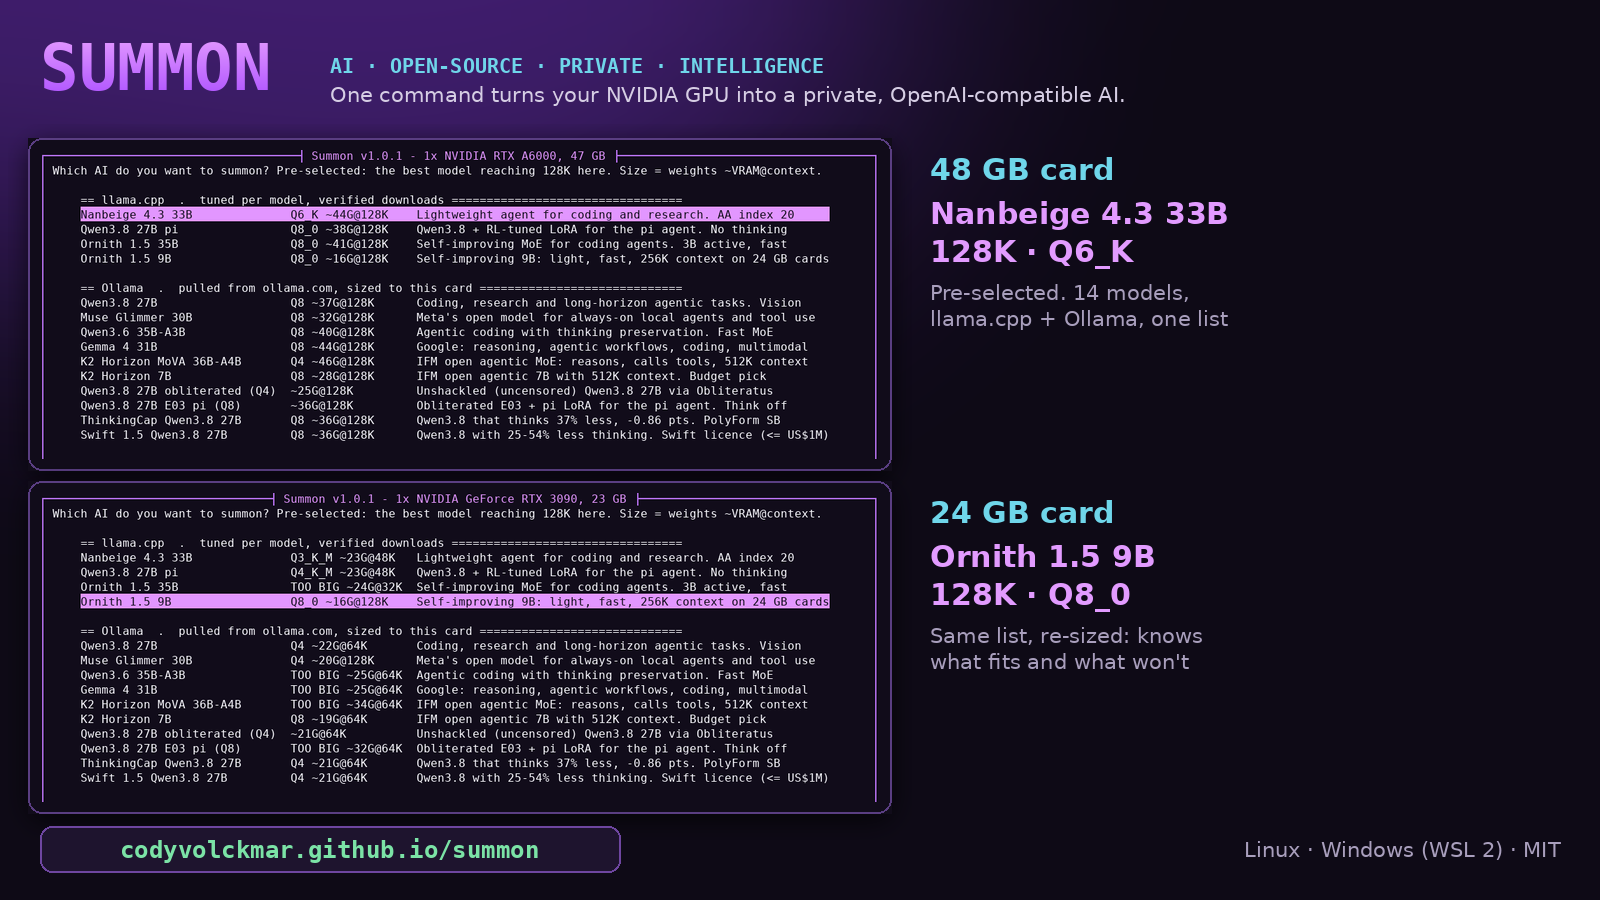
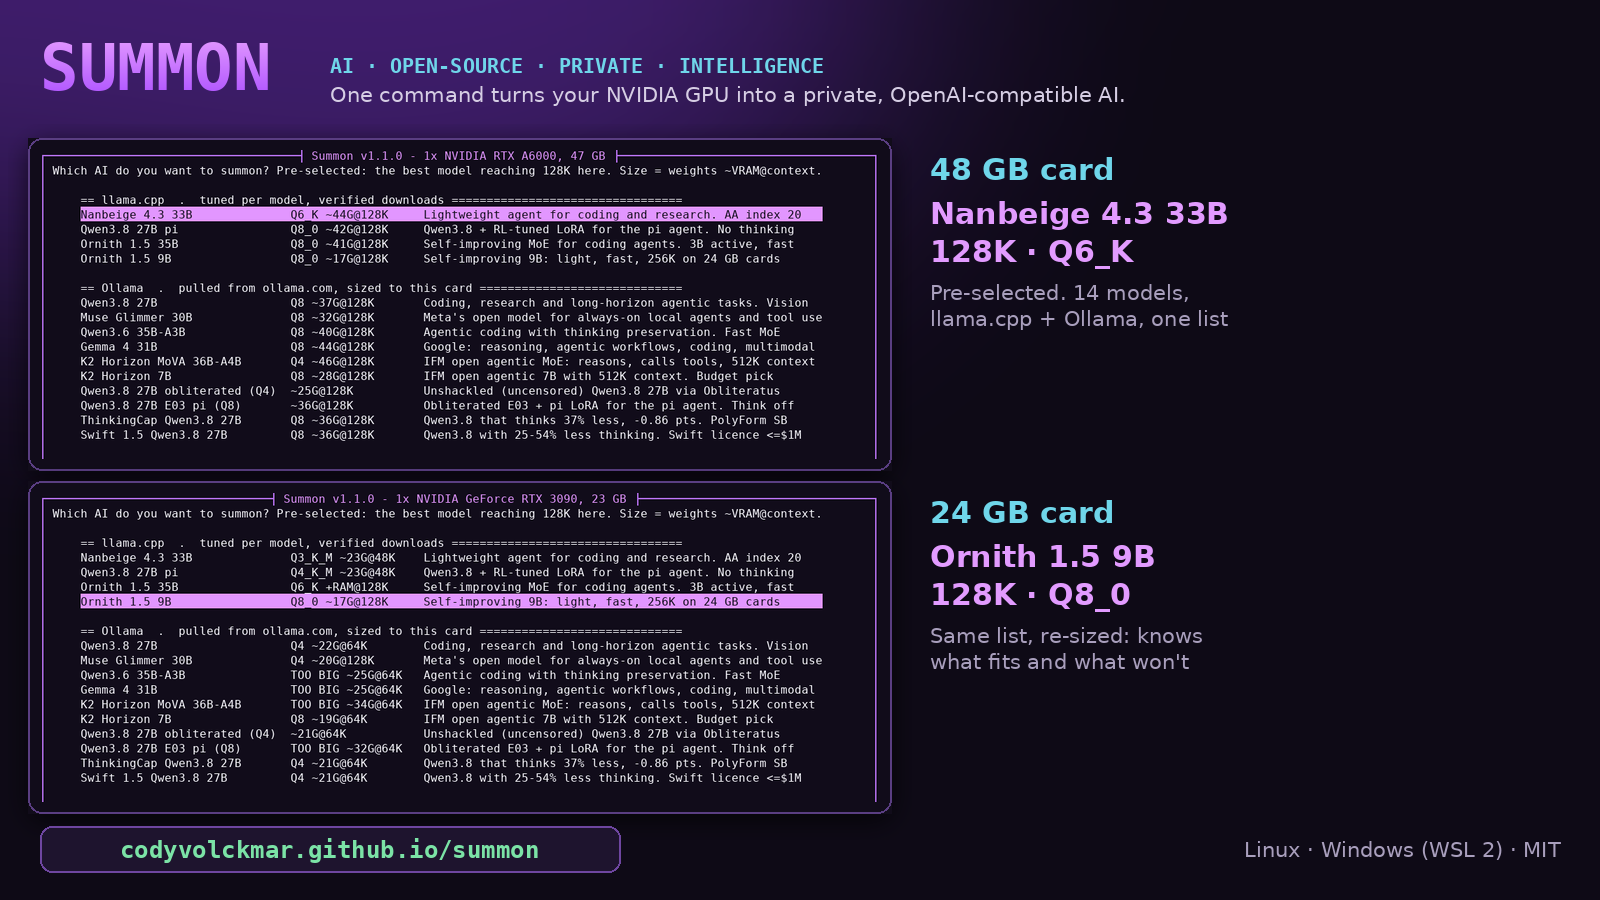
v1.1.0: draft models for every llama.cpp model, MoE experts in system RAM
- Drafts: Qwen3.8 MTP head (file), Ornith built-in MTP layer, Nanbeige4.1-3B (padded once in a container);
  counted in the VRAM fit; on when free, otherwise offered with 'No' pre-selected (DRAFT=on|off, SPEC=off)
- MoE experts in RAM (--cpu-moe + --moe-cache-mib) when the GPU cache holds >= 60% of experts; '+RAM' in menus;
  never pre-selected. Ornith 35B now runs on 24 GB cards with enough system RAM
- Speculation is not bit-identical: docs/messages corrected. SUMMON_RAM for dry-run previews

Changed region(s): [[0.25, 0.2178, 0.5, 0.4978], [0.25, 0.7156, 0.5, 0.8711], [0.1875, 0.5911, 0.5312, 0.6844]]

diff --git a/docs/index.html b/docs/index.html
@@ -62,7 +62,7 @@
   <div class="stars">✦ · ✦ · ✦</div>
   <h1 class="logo">SUMMON</h1>
   <p class="tag">AI · Open-source · Private · Intelligence</p>
-  <p class="note" style="margin:6px 0 0">v1.0.1 · <a href="https://github.com/codyvolckmar/summon/blob/main/CHANGELOG.md">what's new</a></p>
+  <p class="note" style="margin:6px 0 0">v1.1.0 · <a href="https://github.com/codyvolckmar/summon/blob/main/CHANGELOG.md">what's new: draft models, MoE experts in RAM</a></p>
   <p class="lede">One command turns your NVIDIA GPU into a <b>private AI</b> with an OpenAI-compatible API.
     Summon picks the model, weights and context that fit <b>your</b> card, verifies the download, keeps the port private
     and tests tool calling before it hands you the URL. No cloud. No API bill. Nobody else's servers.</p>
@@ -85,7 +85,7 @@
     <div class="card"><h3>Picks for you</h3><p>The best model that reaches 128K context on your card is pre-selected. Context first, then the most precise weights that still fit.</p></div>
     <div class="card"><h3>Verifies</h3><p>Resumable downloads, exact byte counts, GGUF header checks, sha256 on request. Every layer stays on the GPU or it fails loudly.</p></div>
     <div class="card"><h3>Stays private</h3><p>On your own PC it only listens on <code>0.0.0.0</code>. On a rented pod it's firewalled to the IP you SSH in from. No VPN needed.</p></div>
-    <div class="card"><h3>Tuned per model</h3><p>The model's own chat template, native tool calls, a host-RAM prompt cache, lossless n-gram speculative decoding.</p></div>
+    <div class="card"><h3>Tuned per model</h3><p>The model's own chat template, native tool calls, a host-RAM prompt cache, and speculative decoding with each model's draft: MTP heads, a 3B draft model, n-gram drafts.</p></div>
     <div class="card"><h3>Proves it works</h3><p>Before handing you the URL, it makes a real tool call and checks it comes back in OpenAI format.</p></div>
   </div>
 </section>
@@ -96,7 +96,7 @@
     <tr><th>Model</th><th>Engine</th><th>Good at</th><th>24 GB (RTX 3090 / 4090)</th><th>48 GB (RTX A6000)</th></tr>
     <tr><td><b>Nanbeige 4.3 33B</b></td><td>llama.cpp</td><td>Agentic coding. Top of the ≤40B class on Artificial Analysis (index 20).</td><td>up to 48K</td><td>128K (Q6_K) · 256K (Q3_K_M)</td></tr>
     <tr><td><b>Qwen3.8 27B pi</b></td><td>llama.cpp</td><td>Qwen3.8 27B plus a LoRA trained with RL to drive the pi coding agent. Thinking off, far fewer tokens. Vendor benchmarks only.</td><td>~48K (Q4_K_M)</td><td>256K with 8-bit weights</td></tr>
-    <tr><td><b>Ornith 1.5 35B</b></td><td>llama.cpp</td><td>Fast MoE, ~3B active per token. Vendor benchmarks only.</td><td>doesn't fit</td><td>256K with 8-bit weights</td></tr>
+    <tr><td><b>Ornith 1.5 35B</b></td><td>llama.cpp</td><td>Fast MoE, ~3B active per token. Vendor benchmarks only.</td><td>128K, experts in RAM</td><td>256K with 8-bit weights</td></tr>
     <tr><td><b>Ornith 1.5 9B</b></td><td>llama.cpp</td><td>Fast and light. Vendor benchmarks only.</td><td>256K with 8-bit weights</td><td>256K with 8-bit weights</td></tr>
     <tr><td><b>Ollama models</b></td><td>Ollama</td><td>Qwen3.8 27B, Qwen3.6 35B-A3B, Gemma 4 31B, K2 Horizon, Muse Glimmer…</td><td>Qwen3.8 27B at 64K</td><td>most at 128K, 8-bit</td></tr>
   </table>
@@ -111,6 +111,7 @@
     <figure><a href="img/01-model-menu-a6000.png"><img src="img/01-model-menu-a6000.png" alt="Summon model menu on an RTX A6000" loading="lazy"></a><figcaption>One menu, every model: llama.cpp and Ollama side by side, sized to a 48 GB card. Nanbeige pre-selected.</figcaption></figure>
     <figure><a href="img/06-model-menu-3090.png"><img src="img/06-model-menu-3090.png" alt="Summon model menu on an RTX 3090" loading="lazy"></a><figcaption>The same list on a 24 GB card: re-sized, too-big models flagged, Ornith 9B pre-selected.</figcaption></figure>
     <figure><a href="img/03-context-menu.png"><img src="img/03-context-menu.png" alt="Context window menu" loading="lazy"></a><figcaption>Step 1: context window, with the best weights that fit at each length.</figcaption></figure>
+    <figure><a href="img/11-draft-question.png"><img src="img/11-draft-question.png" alt="Draft model question" loading="lazy"></a><figcaption>Draft models speed decoding up. When one would cost weight precision on your card, Summon asks, and defaults to precision.</figcaption></figure>
     <figure><a href="img/04-weights-menu.png"><img src="img/04-weights-menu.png" alt="Weights menu" loading="lazy"></a><figcaption>Step 2: weights. Total VRAM and relative speed for every option.</figcaption></figure>
     <figure><a href="img/05-dry-run-plan.png"><img src="img/05-dry-run-plan.png" alt="Dry run plan" loading="lazy"></a><figcaption>The plan: exactly what it would install, download and start.</figcaption></figure>
     <figure><a href="img/09-ollama-menu.png"><img src="img/09-ollama-menu.png" alt="Ollama model checklist" loading="lazy"></a><figcaption><code>./summon.sh ollama</code>: the same menu, Qwen3.8 27B pre-selected (ranked with independent benchmarks).</figcaption></figure>
@@ -142,7 +143,7 @@
 </section>
 
 <footer>
-  Summon v1.0.1 · open source (MIT) · <a href="https://github.com/codyvolckmar/summon">github.com/codyvolckmar/summon</a><br>
+  Summon v1.1.0 · open source (MIT) · <a href="https://github.com/codyvolckmar/summon">github.com/codyvolckmar/summon</a><br>
   Models belong to their creators and carry their own licences: Nanbeige (Apache-2.0), Ornith (MIT), Ollama models as listed.
 </footer>
 </div>

diff --git a/tools/termshot.py b/tools/termshot.py
@@ -341,13 +341,14 @@ if __name__ == '__main__':
     env = dict(base, SUMMON_GPU='NVIDIA RTX A6000:49140')
     run(f'cd {root}; clear; echo "$ ./summon.sh --dry-run"; "{S}" --dry-run; sleep 30', env, [
         ('until', r'Which AI', 15), ('shot', '01-model-menu-a6000.png', 'summon.sh --dry-run  (RTX A6000, 48 GB)'),
+        ('key', ENTER), ('until', r'Trade precision for speed', 10), ('shot', '11-draft-question.png', 'summon.sh --dry-run  (RTX A6000, 48 GB)'),
         ('key', ENTER), ('until', r'Step 1/2', 10), ('shot', '03-context-menu.png', 'summon.sh --dry-run  (RTX A6000, 48 GB)'),
         ('key', ENTER), ('until', r'Step 2/2', 10), ('shot', '04-weights-menu.png', 'summon.sh --dry-run  (RTX A6000, 48 GB)'),
         ('key', ENTER), ('until', r'Last step: port', 10), ('shot', '02-port.png', 'summon.sh --dry-run  (RTX A6000, 48 GB)'),
         ('key', ENTER), ('until', r'Same, without menus', 10), ('shot', '05-dry-run-plan.png', 'summon.sh --dry-run  (RTX A6000, 48 GB)'),
     ], out)
     # 2) RTX 3090: the model menu pre-selects Ornith 9B
-    env = dict(base, SUMMON_GPU='NVIDIA GeForce RTX 3090:24576')
+    env = dict(base, SUMMON_GPU='NVIDIA GeForce RTX 3090:24576', SUMMON_RAM='65536')   # a 64 GB RAM box: Ornith 35B fits with experts in RAM
     run(f'cd {root}; clear; "{S}" --dry-run 40000; sleep 30', env, [
         ('until', r'Which AI', 15), ('shot', '06-model-menu-3090.png', 'summon.sh --dry-run 40000  (RTX 3090, 24 GB)'),
         ('key', ENTER), ('until', r'Step 1/2', 10), ('key', ENTER), ('until', r'Step 2/2', 10),

diff --git a/README.md b/README.md
@@ -1,6 +1,6 @@
 # Summon
 
-**AI · Open-source · Private · Intelligence**  ·  v1.0.1 ([changelog](CHANGELOG.md))
+**AI · Open-source · Private · Intelligence**  ·  v1.1.0 ([changelog](CHANGELOG.md))
 
 One command turns your NVIDIA GPU into a private AI with an OpenAI-compatible API. Summon picks the model, weights and context that fit your card, verifies the download, keeps the port private and tests tool calling before it hands you the URL. No cloud, no API bill, nobody else's servers.
 
@@ -35,7 +35,7 @@ Piping a script into a shell gives it root. Read [summon.sh](summon.sh) first; i
 |---|---|---|---|
 | **Nanbeige 4.3 33B**: agentic coding, Artificial Analysis index 20 (top of the ≤40B class) | llama.cpp | up to 48K | 128K (Q6_K) · 256K (Q3_K_M) |
 | **Qwen3.8 27B pi**: Qwen3.8 27B + a LoRA RL-tuned to drive the [pi](https://github.com/earendil-works/pi) coding agent, thinking off (vendor benchmarks) | llama.cpp | ~48K (Q4_K_M) | 256K, 8-bit weights |
-| **Ornith 1.5 35B**: fast MoE, ~3B active (vendor benchmarks) | llama.cpp | doesn't fit | 256K, 8-bit weights |
+| **Ornith 1.5 35B**: fast MoE, ~3B active (vendor benchmarks) | llama.cpp | 128K with experts in RAM (needs ~30 GB free RAM) | 256K, 8-bit weights |
 | **Ornith 1.5 9B**: fast and light (vendor benchmarks) | llama.cpp | 256K, 8-bit weights | 256K, 8-bit weights |
 | **Ollama models**: Qwen3.8 27B, Qwen3.6 35B-A3B, Gemma 4 31B, K2 Horizon, Muse Glimmer… | Ollama | Qwen3.8 27B at 64K | most at 128K, 8-bit |
 
@@ -60,7 +60,9 @@ Then point any OpenAI-compatible client at `http://localhost:PORT/v1` (rented po
 - **Context first, then precision.** Every token reads all the weights plus the part of the cache in use, so reserving a long context costs VRAM, not speed. Summon defaults to 128K with the most precise weights that still fit, and never uses a 4-bit cache.
 - **Each model's own chat template** (llama.cpp `--jinja`), so native tool calls and thinking blocks work. That's why Nanbeige and Ornith run on llama.cpp: Ollama's builds of them ship without tool support.
 - **Every layer on the GPU** (`--fit off`): if it doesn't fit, it fails loudly instead of silently crawling on the CPU.
-- **Host-RAM prompt cache** so side requests (chat titles, subagents) don't evict a 200K-token conversation; **n-gram speculative decoding** (lossless) for code rewrites.
+- **Host-RAM prompt cache** so side requests (chat titles, subagents) don't evict a 200K-token conversation.
+- **Speculative decoding** (v1.1.0): each model's draft plus n-gram drafts. Qwen3.8 uses its MTP head (+60-90% measured on base Qwen3.8), Ornith its built-in MTP layer, Nanbeige the optional Nanbeige4.1-3B draft model (~70% faster decoding, ~3x faster tool calls, community-measured). A draft that would cost weight precision on your card is offered, never forced. The model checks every drafted token, so quality holds on average, but outputs aren't bit-identical to a run without it: `SPEC=off` for reproducible runs.
+- **MoE experts in system RAM** (v1.1.0): a mixture-of-experts model that doesn't fit VRAM (Ornith 35B on a 24 GB card) keeps its experts in RAM and caches the hot ones on the GPU (llama.cpp `--cpu-moe` + `--moe-cache-mib`), shown as `+RAM` in the menu. Summon only offers it when the GPU cache holds at least 60% of the experts, and never pre-selects it.
 
 ## Screenshots
 

diff --git a/CHANGELOG.md b/CHANGELOG.md
@@ -1,5 +1,16 @@
 # Changelog
 
+## v1.1.0 (2026-11-19)
+
+- **Draft models (speculative decoding).** Each llama.cpp model gets its draft, combined with n-gram drafts:
+  - Qwen3.8 27B pi: Qwen3.8's MTP head (ggml-org's separate file, 3 GB). Measured on base Qwen3.8 27B: +60% decode on an RTX 3090, 1.9x on code.
+  - Ornith 1.5 35B / 9B: the MTP layer built into the model file, no extra download.
+  - Nanbeige 4.3 33B: the Nanbeige4.1-3B draft model, padded once at install to the 33B's vocabulary (pad_draft.py, MIT, run in a throwaway container). Community-measured: ~70% faster decoding, ~3x faster tool calls.
+  - The VRAM fit counts every draft. A draft that costs nothing is on by default; one that would lower the weights (Nanbeige's 3B on a 48 GB card: Q4_K_M instead of Q6_K at 128K) is asked about, with "No" pre-selected. `DRAFT=on|off` decides up front, `SPEC=off` turns all speculation off.
+- **MoE experts in system RAM.** Mixture-of-experts models that don't fit VRAM run with their routed experts in RAM and the hot ones cached on the GPU (`--cpu-moe` + `--moe-cache-mib`, which llama.cpp leaves off by default). Ornith 1.5 35B now runs on a 24 GB card (Q6_K at 128K with ~30 GB free RAM). Offered only when the GPU cache holds >= 60% of the experts; shown as `+RAM`; never pre-selected.
+- **Accuracy fix:** speculative decoding was described as lossless. Quality holds on average, but outputs aren't bit-identical (batched verification changes float rounding); docs and messages now say so.
+- Dry runs can preview another machine's RAM: `SUMMON_RAM=65536`.
+
 ## v1.0.1 (2026-11-19)
 
 - **One menu for every model.** llama.cpp and Ollama models share a single list, grouped under engine headers, with a description from each model's card and what fits on your card (weights ~VRAM@context, or TOO BIG). It fits on one screen; short terminals get a compact list.
